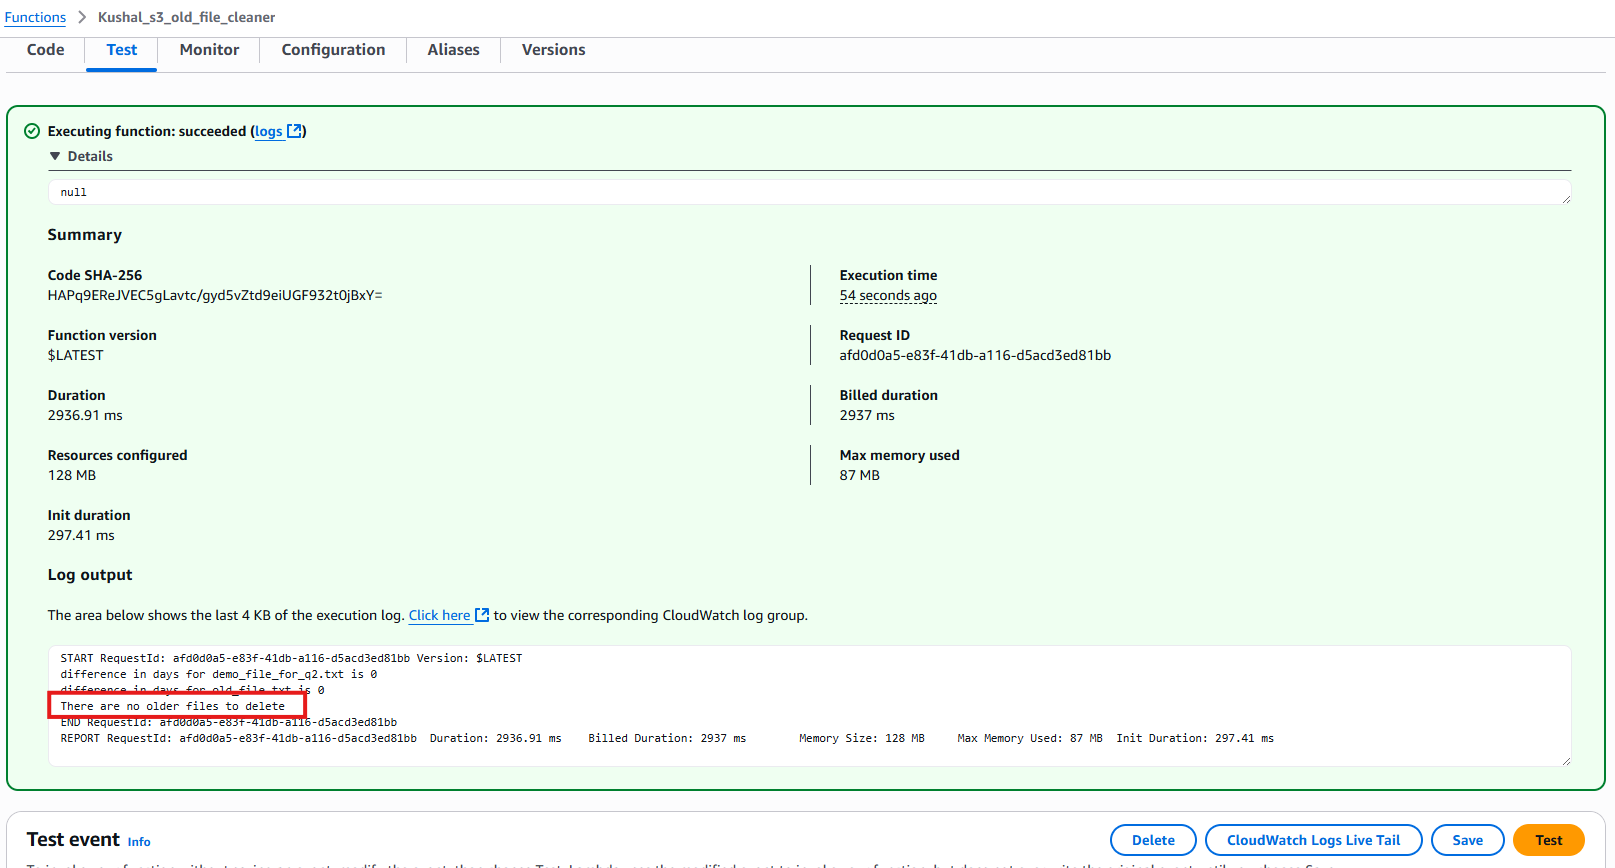
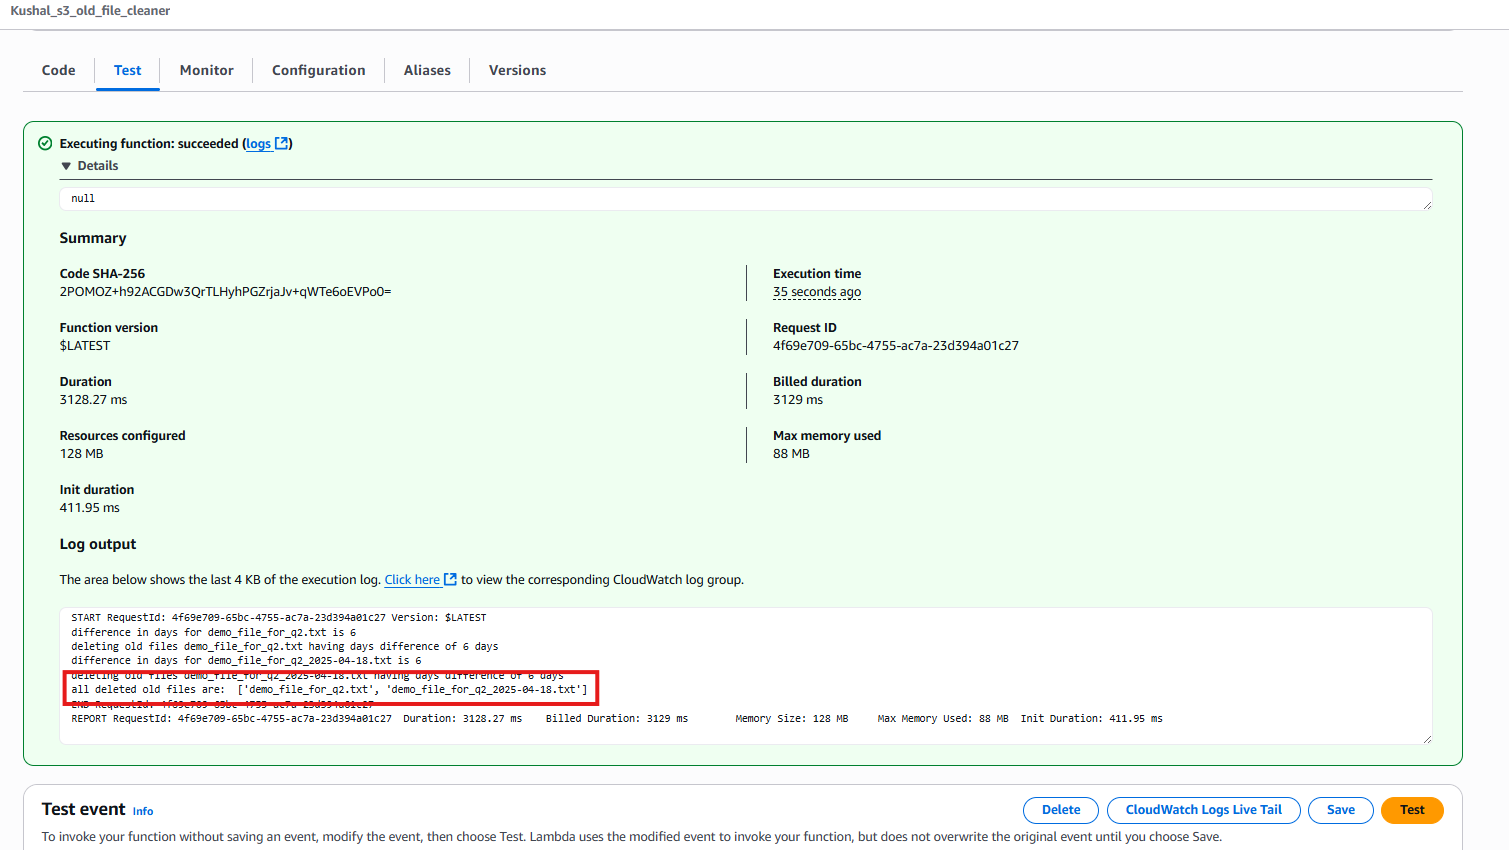
updated readme file

diff --git a/Assignment-2/README.md b/Assignment-2/README.md
@@ -61,15 +61,23 @@ The Lambda function scans an S3 bucket and deletes all files older than **30 day
 
 ### ✅ 4. Manual Test & Output Verification
 - Manually triggered the Lambda function.
+- Change the parameter of days to 4 to test out my code as:
+    ```
+      days_to_check = 4
+    ```
 - Verified the log to confirm that:
-  - Only files older than 30 days were deleted.
+  - Only files older than `4 days` were deleted.
   - Recent files were retained.
 
 📸 *Screenshot: Lambda Execution Log*
 <p align="center">
-  <img src="./lambda-execution-log.png" width="800" alt="Lambda Test Event" />
+  <img src="./screenshots/lambda-execution-log.png" width="800" alt="Lambda Test Event" />
 </p>
 
+📸 *Screenshot: S3 Bucket list after execution*
+<p align="center">
+  <img src="./screenshots/s3-bucket-list-after-delition.png" width="800" alt="S3 Bucket list after execution" />
+</p>
 
 ---
 
